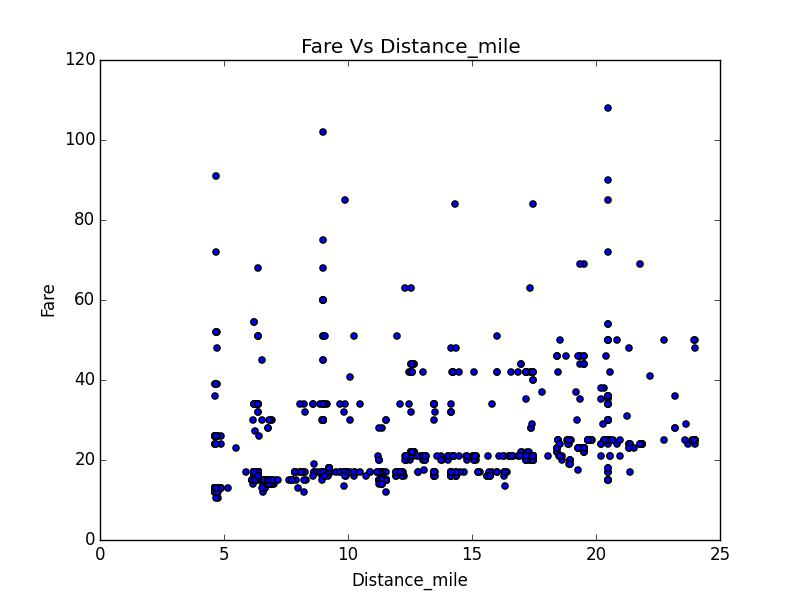
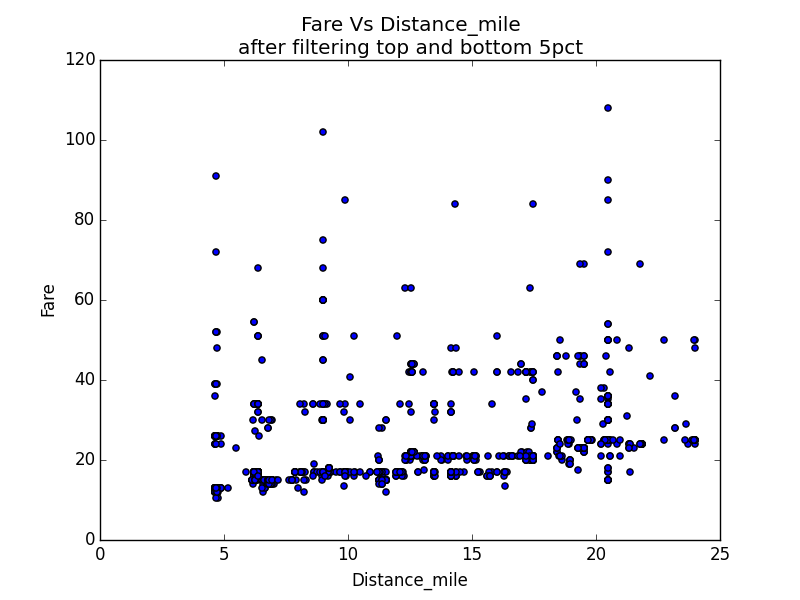
work-in-progress: add outputs

Changed region(s): [[0.2812, 0.03, 0.75, 0.09]]

diff --git a/mini_project/application.py b/mini_project/application.py
@@ -58,8 +58,8 @@ def generate_exploratory_plots(data, img_id=0):
         plt.scatter(data[x], data[y])
         plt.xlabel(x)
         plt.ylabel(y)
-        img_title = y + ' Vs ' + x
-        plt.title(img_title)
+        img_title = y + ' Vs ' + x 
+        plt.title(img_title + '\n' + img_id)
         
         img_filename = os.path.join('./../output/{}_{}.png'.format(img_title, img_id))
         if os.path.isfile(img_filename):
